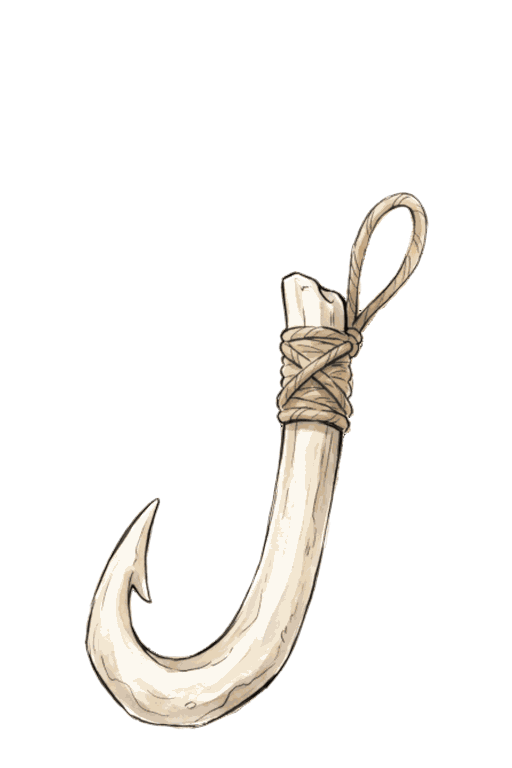
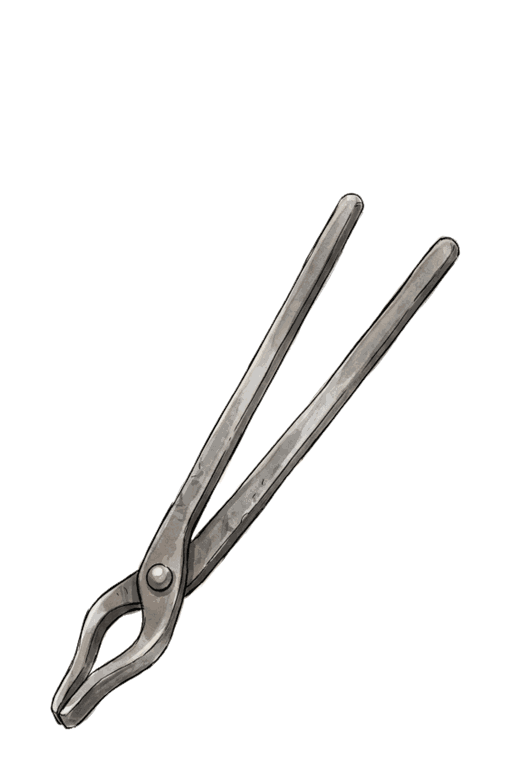
Export Harsh Wilds v0.11.7 from monorepo
Sync source files; exclude bin/, obj/, lib/, .audit/.

Changed region(s): [[0.0938, 0.25, 0.9062, 0.9688]]

diff --git a/Harsh_Wilds/Plugin.cs b/Harsh_Wilds/Plugin.cs
@@ -12,7 +12,7 @@ internal class Plugin : ContentModPlugin
 {
     private const string PluginGuid = "crispywhips.harsh_wilds";
     public const string PluginName = "Harsh Wilds";
-    public const string PluginVersion = "0.11.6";
+    public const string PluginVersion = "0.11.7";
 
     internal new static ManualLogSource Logger { get; private set; }
     internal static Plugin Instance { get; private set; }

diff --git a/Harsh_Wilds/README.md b/Harsh_Wilds/README.md
@@ -1,6 +1,6 @@
 # Harsh Wilds
 
-**Version:** 0.11.6
+**Version:** 0.11.7
 **Author:** Jared
 **Requires:** CSFFModFramework 2.28.0 or later
 **Status:** pre-release. Rewards (meat, affinity, coats, rites) were tuned to their base-game equivalents in 0.11.6; the threats' chances, numbers and lengths are still first guesses not yet balanced against play. Where a feature is not yet confirmed in a running game, its section says so.
@@ -161,7 +161,7 @@ Each is a status with an icon and an alert at each new stage. Each has a recipe 
 ### Tooth decay (`ToothDecay`)
 - **How you get it:** reaching "tired of eating sweet things" with honeycomb or sugar (about 1 time in 3); eating a lot of fruit quickly (about 1 in 6); plain time (about 1 day in 60).
 - **Cost:** three stages (Sore Tooth, Toothache, Rotten Tooth) add 30, 60 and 90 to Pain and make stress build faster by 0.25, 0.5 and 0.75 a quarter hour.
-- **Cure:** a Chewing Stick (one Willow Twigs) takes half a stage per **Chew**. With Herbs and Fungi, **Chew with Herbs** takes a whole stage. A Tooth Puller (Bones and Twine, three uses) offers **Pull the Bad Tooth** at Rotten Tooth only: half an hour, clears the decay, adds 40 stress at once. Painkillers dull the pain but do not cure it.
+- **Cure:** a Chewing Stick (one Willow Twigs) takes half a stage per **Chew**. With Herbs and Fungi, **Chew with Herbs** takes a whole stage. A Tooth Puller (metal tongs worked from one Heated Metal Bar of any metal, three uses) offers **Pull the Bad Tooth** at Rotten Tooth only: half an hour, clears the decay, adds 40 stress at once. Painkillers dull the pain but do not cure it.
 
 ### Spirit sickness (`SpiritSickness`)
 - **How you get it:** when you fail to bind the Lynx, Goat or Blood Spirit and it is angered, its angry card waits on the board until you press Continue. While it waits, a roll once a game day (two in three) may leave you spirit-sick. The base game's own spirits are never a source.
@@ -323,6 +323,7 @@ These UniqueIDs are a contract: Harsh Wilds will not rename or remove one withou
 
 Full notes in `CHANGELOG.md`. Latest:
 
+- **0.11.7:** the Tooth Puller is metal tongs made from a Heated Metal Bar, and the selkie can now rise on Far Territory's shore.
 - **0.11.6:** balance pass: musk oxen give less and return monthly, slower brews and athame rites, base-game coat tiers with real armour, a fuller lindwurm, a use for Fairy Stones.
 - **0.11.5:** the golden hind is removed; the base game's White Deer covers it.
 - **0.11.4:** the Faerie Realm stays still; the people, animals and spirits still breathe.

diff --git a/Harsh_Wilds/.art/RUN_LOG.md b/Harsh_Wilds/.art/RUN_LOG.md
@@ -79,3 +79,4 @@
 | 2026-10-12 | hw_casting_bones (owner gallery round 3: regenerate, new content; score 79) | nano-banana-2 image2image | 1K | 20 | OKOiwWwpfiCe5xdLBrrp | OK |
 | 2026-10-12 | hw_chewing_stick (owner gallery round 3: regenerate, new content; score 77) | nano-banana-2 image2image | 1K | 20 | MCJxYAPAhcncgeEjMN68 | OK |
 | 2026-10-12 | hw_casting_bones (owner gallery round 4: tally marks only (previous generation as content reference); score 65) | nano-banana-2 image2image | 1K | 20 | p6EbSjwc0ljMeFWWT6kg | OK |
+| 2026-10-15 | hw_tooth_puller (owner: now metal tongs; words-only redraw, style refs Knife_Flint + Axe_Stone; jaw gap keyed) | nano-banana-2 image2image | 1K | 20 | yi9AuGOAMNTSFyh4VKZU | OK |

diff --git a/Harsh_Wilds/CHANGELOG.md b/Harsh_Wilds/CHANGELOG.md
@@ -1,5 +1,15 @@
 # Changelog
 
+## 0.11.7 (2026-10-15)
+
+### Changed
+
+- **The Tooth Puller is now a pair of metal tongs.** Its recipe (Survival > Medical) takes one Heated Metal Bar of any metal instead of Bones and Twine. It still works only on a Rotten Tooth and lasts three pulls.
+
+### Fixed
+
+- **The selkie can now appear on Far Territory's Driftwood Shore.** The shore only counted as a card lying in your base or on the board, never as the place you were standing in, so the selkie never rose there. Now she can, at night, out in the open, at most once every three days.
+
 ## 0.11.6 (2026-10-15)
 
 A balance pass to keep Harsh Wilds' rewards in step with the base game. The threats are unchanged.
